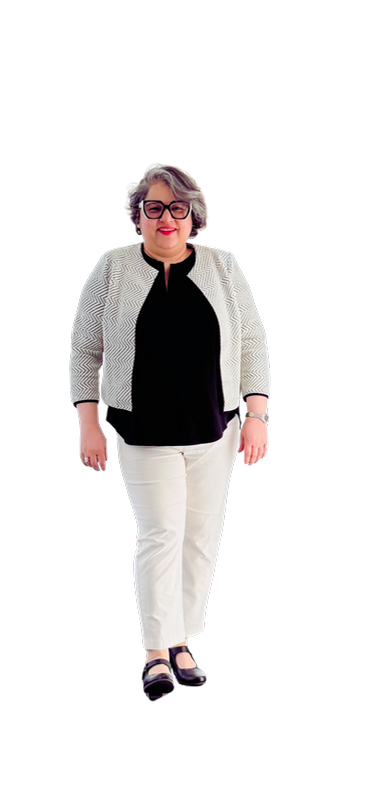
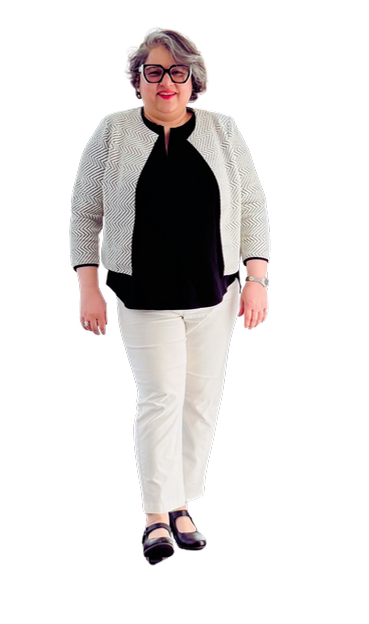
Crop empty headroom out of the About page portrait
The source photo had ~161px of transparent space above her head and
~96px below her feet (out of 800px total) — baked into the PNG from
its original hero-visual crop, where the layout needed that framing.
On the About page's founder-photo slot it just read as a large blank
gap between the page header and the photo. Cropped to the actual
figure with modest head/footroom (369x624 now, was 369x800) and
updated the width/height attributes to match.

diff --git a/about.html b/about.html
@@ -141,7 +141,7 @@
     <div class="container">
       <div class="founder-wrap">
         <div class="founder-photo" data-anim="rise">
-          <img src="assets/images/nisha-kashyap.png" alt="Nisha Kashyap" width="369" height="800">
+          <img src="assets/images/nisha-kashyap.png" alt="Nisha Kashyap" width="369" height="624">
         </div>
         <div data-anim="rise">
           <span class="eyebrow">Why I do this</span>
